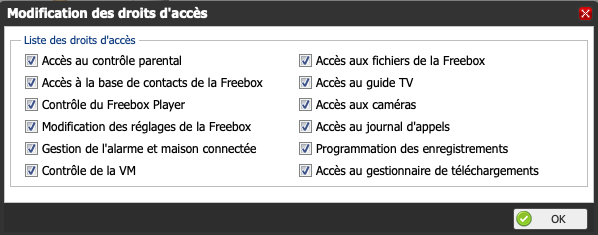
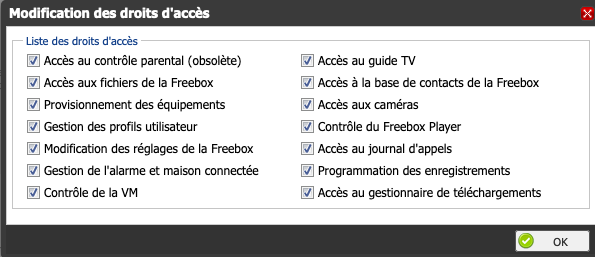
Modification changelog BETA

Changed region(s): [[0.0, 0.0, 1.0, 0.983]]

diff --git a/Freebox_OS/fr_FR/changelog.md b/Freebox_OS/fr_FR/changelog.md
@@ -124,13 +124,16 @@ pluginId: Freebox_OS
 
 # Beta
 
-## 11/07/2020
+## 17/07/2020
 
-- Caméra : Mise à jour des infos fabricant et modèle suite à l'intégration dans le plugin Caméra
+> Attention cette version nécessite d'avoir au minimun la version 4.2 sur la freebox
+> Il faudra aussi mettre à jour les droits dans la console de la Freebox
+
 - Nettoyage Création des commandes
 - Ajout icône pour les batteries
-- Ajout du type d'équipement sur chaque commande
 - Ajout possibilité dans l'add des commandes de mettre le nom avec son icône
+- Migration de l'ensemble des API vers V8
+- Correction Bug création commande Disques
 - **Alarme**
   - Correction Bug widget Alarme Freebox
   - Ajout du nom et de l'icône pour les modes
@@ -138,10 +141,17 @@ pluginId: Freebox_OS
     > - Il fortement conseillé de supprimer cet équipement pour avoir les nouvelles commandes
 - **Télécommande Alarme**
   - Remonter du dernier état
+- **Système**
+  - Remonter des nouveaux états
+    > Il est conseiller de supprimer l'équipement et faire une recherche des équipements standards
+  - Ajout
 - **4G**
   - Ajout commande pour activer/désactiver la 4G sur la boxe
+    > Les commandes sont ajoutées uniquement si la carte est détectée
 - **Wifi**
   - Ajout Planning => Etat + Activation + Désactiver
   - Ajout type de générique pour le Wifi (afin de le commander via Homebridge)
 - **Contrôle Parental**
-  - Ajout du contrôle parental => Etat + Activation + Désactiver
+  - Ajout du contrôle parental => Etat
+- **Caméra**
+  - Mise à jour des infos fabricant et modèle suite à l'intégration dans le plugin Caméra
